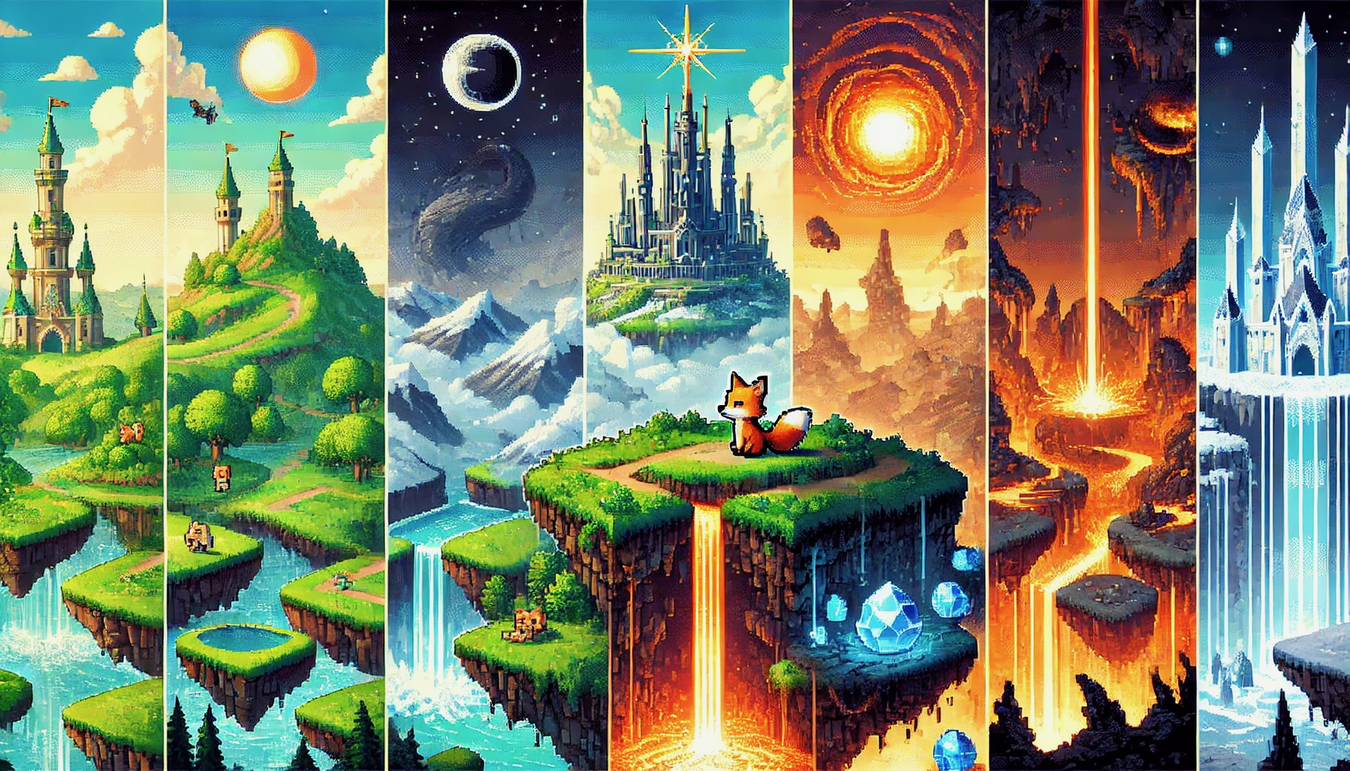
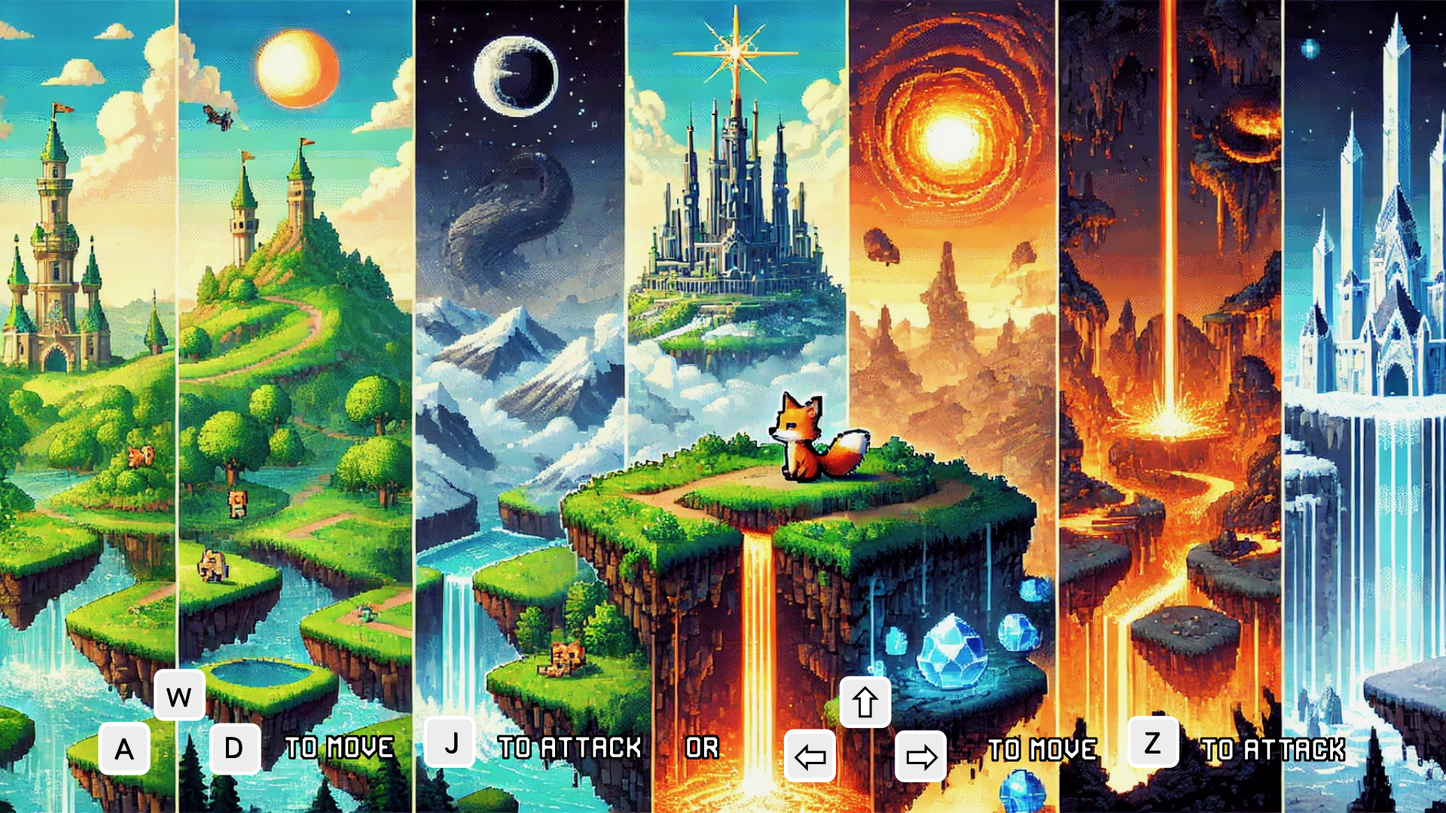
change 3.18

diff --git a/Echoes of Adventure/scenes/Menu.js b/Echoes of Adventure/scenes/Menu.js
@@ -102,6 +102,70 @@ function draw() {
   // 其它游戏状态...
 }
 
+// function drawMenu() {
+//   background(30);
+  
+//   // 背景图片
+//   image(menuBg, 0, 0, width, height);
+  
+//   // 标题动态浮动
+//   let titleOffset = sin(frameCount * 0.05) * 10;
+
+//   textAlign(CENTER, CENTER);
+
+//   // 计算标题宽度
+//   textSize(72);
+//   textStyle(BOLD);
+//   let titleText = "Echoes of Adventure";
+//   let titleWidth = textWidth(titleText) + 80;
+//   let titleHeight = 72 * 1.2; 
+
+//   // 菜单选项 —— 在这里新增 "Press C to view Credits"
+//   textSize(28);
+//   textStyle(NORMAL);
+//   let menuItems = [
+//     "                           ",
+//     "Press 1 for Invincible Mode",
+//     "Press 2 for Normal Mode",
+//     // "                           ",
+//     // "Press I to view instructions",
+//     // "Collect all the coins to complete the level",
+
+//     //"Press C to view Credits"  // <-- 新增这一行
+    
+//   ];
+//   let lineSpacing = 50;
+//   let menuHeight = menuItems.length * lineSpacing;
+
+//   // 计算毛玻璃背景大小
+//   let boxWidth = titleWidth;
+//   let boxHeight = titleHeight + menuHeight + 60;
+//   let boxX = (width - boxWidth) / 2;
+//   let boxY = height / 2 - 150 + titleOffset - titleHeight / 2 - 10;
+
+//   // 绘制半透明背景
+//   noStroke();
+//   fill(0, 0, 0, 120);
+//   rect(boxX, boxY, boxWidth, boxHeight, 20);
+
+//   // 白色半透明层（模拟毛玻璃）
+//   fill(255, 255, 255, 30);
+//   rect(boxX, boxY, boxWidth, boxHeight, 20);
+
+//   // 绘制标题（带黑色描边）
+//   drawTextWithOutline(titleText, width / 2, height / 2 - 150 + titleOffset, 72, 5);
+
+//   // 绘制菜单选项（带黑色描边）
+//   textSize(28);
+//   textStyle(NORMAL);
+//   let startY = height / 2 - 80 + titleOffset;
+//   for (let i = 0; i < menuItems.length; i++) {
+//     drawTextWithOutline(menuItems[i], width / 2, startY + i * lineSpacing, 28, 3);
+//   }
+// }
+
+// 带描边的文字绘制函数
+
 function drawMenu() {
   background(30);
   
@@ -121,14 +185,14 @@ function drawMenu() {
   let titleHeight = 72 * 1.2; 
 
   // 菜单选项 —— 在这里新增 "Press C to view Credits"
-  textSize(28);
-  textStyle(NORMAL);
   let menuItems = [
     "                           ",
-    "Press 1 for Invincible Mode",
-    "Press 2 for Normal Mode",
+    "Press 1 : Invincible Mode  /  Press 2 : Normal Mode",
+    //"Press 2 : Normal Mode",
+    "                           ",
+    "Collect all the coins to complete the level",
     "Press I to view instructions",
-    //"Press C to view Credits"  // <-- 新增这一行
+    // "Press C to view Credits"  // <-- 新增这一行（如需使用请取消注释）
   ];
   let lineSpacing = 50;
   let menuHeight = menuItems.length * lineSpacing;
@@ -152,15 +216,20 @@ function drawMenu() {
   drawTextWithOutline(titleText, width / 2, height / 2 - 150 + titleOffset, 72, 5);
 
   // 绘制菜单选项（带黑色描边）
-  textSize(28);
-  textStyle(NORMAL);
   let startY = height / 2 - 80 + titleOffset;
   for (let i = 0; i < menuItems.length; i++) {
-    drawTextWithOutline(menuItems[i], width / 2, startY + i * lineSpacing, 28, 3);
+    let fontSize = 28; // 默认字体大小
+    // 针对指令与提示行使用较小字体
+    if (
+      menuItems[i] === "Collect all the coins to complete the level" ||
+      menuItems[i] === "Press I to view instructions"
+    ) {
+      fontSize = 24;
+    }
+    drawTextWithOutline(menuItems[i], width / 2, startY + i * lineSpacing, fontSize, 3);
   }
 }
 
-// 带描边的文字绘制函数
 function drawTextWithOutline(txt, x, y, txtSize, outlineWeight) {
   textSize(txtSize);
   textStyle(BOLD);

diff --git a/docs/scenes/Menu.js b/docs/scenes/Menu.js
@@ -102,6 +102,70 @@ function draw() {
   // 其它游戏状态...
 }
 
+// function drawMenu() {
+//   background(30);
+  
+//   // 背景图片
+//   image(menuBg, 0, 0, width, height);
+  
+//   // 标题动态浮动
+//   let titleOffset = sin(frameCount * 0.05) * 10;
+
+//   textAlign(CENTER, CENTER);
+
+//   // 计算标题宽度
+//   textSize(72);
+//   textStyle(BOLD);
+//   let titleText = "Echoes of Adventure";
+//   let titleWidth = textWidth(titleText) + 80;
+//   let titleHeight = 72 * 1.2; 
+
+//   // 菜单选项 —— 在这里新增 "Press C to view Credits"
+//   textSize(28);
+//   textStyle(NORMAL);
+//   let menuItems = [
+//     "                           ",
+//     "Press 1 for Invincible Mode",
+//     "Press 2 for Normal Mode",
+//     // "                           ",
+//     // "Press I to view instructions",
+//     // "Collect all the coins to complete the level",
+
+//     //"Press C to view Credits"  // <-- 新增这一行
+    
+//   ];
+//   let lineSpacing = 50;
+//   let menuHeight = menuItems.length * lineSpacing;
+
+//   // 计算毛玻璃背景大小
+//   let boxWidth = titleWidth;
+//   let boxHeight = titleHeight + menuHeight + 60;
+//   let boxX = (width - boxWidth) / 2;
+//   let boxY = height / 2 - 150 + titleOffset - titleHeight / 2 - 10;
+
+//   // 绘制半透明背景
+//   noStroke();
+//   fill(0, 0, 0, 120);
+//   rect(boxX, boxY, boxWidth, boxHeight, 20);
+
+//   // 白色半透明层（模拟毛玻璃）
+//   fill(255, 255, 255, 30);
+//   rect(boxX, boxY, boxWidth, boxHeight, 20);
+
+//   // 绘制标题（带黑色描边）
+//   drawTextWithOutline(titleText, width / 2, height / 2 - 150 + titleOffset, 72, 5);
+
+//   // 绘制菜单选项（带黑色描边）
+//   textSize(28);
+//   textStyle(NORMAL);
+//   let startY = height / 2 - 80 + titleOffset;
+//   for (let i = 0; i < menuItems.length; i++) {
+//     drawTextWithOutline(menuItems[i], width / 2, startY + i * lineSpacing, 28, 3);
+//   }
+// }
+
+// 带描边的文字绘制函数
+
 function drawMenu() {
   background(30);
   
@@ -121,14 +185,14 @@ function drawMenu() {
   let titleHeight = 72 * 1.2; 
 
   // 菜单选项 —— 在这里新增 "Press C to view Credits"
-  textSize(28);
-  textStyle(NORMAL);
   let menuItems = [
     "                           ",
-    "Press 1 for Invincible Mode",
-    "Press 2 for Normal Mode",
+    "Press 1 : Invincible Mode  /  Press 2 : Normal Mode",
+    //"Press 2 : Normal Mode",
+    "                           ",
+    "Collect all the coins to complete the level",
     "Press I to view instructions",
-    //"Press C to view Credits"  // <-- 新增这一行
+    // "Press C to view Credits"  // <-- 新增这一行（如需使用请取消注释）
   ];
   let lineSpacing = 50;
   let menuHeight = menuItems.length * lineSpacing;
@@ -152,15 +216,20 @@ function drawMenu() {
   drawTextWithOutline(titleText, width / 2, height / 2 - 150 + titleOffset, 72, 5);
 
   // 绘制菜单选项（带黑色描边）
-  textSize(28);
-  textStyle(NORMAL);
   let startY = height / 2 - 80 + titleOffset;
   for (let i = 0; i < menuItems.length; i++) {
-    drawTextWithOutline(menuItems[i], width / 2, startY + i * lineSpacing, 28, 3);
+    let fontSize = 28; // 默认字体大小
+    // 针对指令与提示行使用较小字体
+    if (
+      menuItems[i] === "Collect all the coins to complete the level" ||
+      menuItems[i] === "Press I to view instructions"
+    ) {
+      fontSize = 24;
+    }
+    drawTextWithOutline(menuItems[i], width / 2, startY + i * lineSpacing, fontSize, 3);
   }
 }
 
-// 带描边的文字绘制函数
 function drawTextWithOutline(txt, x, y, txtSize, outlineWeight) {
   textSize(txtSize);
   textStyle(BOLD);

diff --git a/Echoes of Adventure/scenes/GameOver.js b/Echoes of Adventure/scenes/GameOver.js
@@ -15,10 +15,15 @@ function keyPressed() {
 function drawGameOver() {
   background(0);
   textAlign(CENTER, CENTER);
+  
+  // 绘制标题 "Game Over"：红色、大字体，放在画面上半部分
   fill(255, 0, 0);
-  textSize(48);
-  text("Game Over", width / 2, height / 2);
-
-  textSize(24);
-  text("Press M to return to Menu", width / 2, height / 2 + 50);
+  textSize(70);
+  text("Game Over", width / 2, height / 2 - 100);
+  
+  // 绘制说明文字：白色、小字体，放在标题下方，间距适中
+  fill(255);
+  textSize(36);
+  text("Restart this Level -> Press 'P' then 'R'", width / 2, height / 2 - 20);
+  text("Return to Menu -> Press 'M'", width / 2, height / 2 + 30);
 }

diff --git a/docs/scenes/GameOver.js b/docs/scenes/GameOver.js
@@ -15,10 +15,15 @@ function keyPressed() {
 function drawGameOver() {
   background(0);
   textAlign(CENTER, CENTER);
+  
+  // 绘制标题 "Game Over"：红色、大字体，放在画面上半部分
   fill(255, 0, 0);
-  textSize(48);
-  text("Game Over", width / 2, height / 2);
-
-  textSize(24);
-  text("Press M to return to Menu", width / 2, height / 2 + 50);
+  textSize(70);
+  text("Game Over", width / 2, height / 2 - 100);
+  
+  // 绘制说明文字：白色、小字体，放在标题下方，间距适中
+  fill(255);
+  textSize(36);
+  text("Restart this Level -> Press 'P' then 'R'", width / 2, height / 2 - 20);
+  text("Return to Menu -> Press 'M'", width / 2, height / 2 + 30);
 }

diff --git a/Echoes of Adventure/scenes/Credits.js b/Echoes of Adventure/scenes/Credits.js
@@ -147,14 +147,14 @@ function drawCredits() {
   let imageY = (height - imageHeight) / 2;
 
   // 显示左侧图片
-  /*if (creditImage) {
+  if (creditImage) {
     image(creditImage, imageX, imageY, imageWidth, imageHeight);
   } else {
     fill(255, 0, 0);
     textSize(24);
     textAlign(CENTER, CENTER);
     text("Error: Image not loaded", imageX + imageWidth / 2, imageY + imageHeight / 2);
-  }*/
+  }
 
   // 右侧 Credits 信息区域
   let boxWidth = width / 2 - 100;

diff --git a/docs/scenes/Credits.js b/docs/scenes/Credits.js
@@ -147,14 +147,14 @@ function drawCredits() {
   let imageY = (height - imageHeight) / 2;
 
   // 显示左侧图片
-  /*if (creditImage) {
+  if (creditImage) {
     image(creditImage, imageX, imageY, imageWidth, imageHeight);
   } else {
     fill(255, 0, 0);
     textSize(24);
     textAlign(CENTER, CENTER);
     text("Error: Image not loaded", imageX + imageWidth / 2, imageY + imageHeight / 2);
-  }*/
+  }
 
   // 右侧 Credits 信息区域
   let boxWidth = width / 2 - 100;

diff --git a/Echoes of Adventure/classes/Player.js b/Echoes of Adventure/classes/Player.js
@@ -337,10 +337,10 @@ class Player {
 
   /** 🎮 监听键盘按下 */
   keyPressed() {
-    if (key === " ") {
+    if (key === " " || key === "w" || key === "W") {
       this.jump();
     }
-    if (key === "Z" || key === "z") {
+    if (key === "Z" || key === "z" || key === "j" || key === "J") {
       this.attack();
     }
     //if (key === "X" || key === "x") this.dash();

diff --git a/docs/classes/Player.js b/docs/classes/Player.js
@@ -337,10 +337,10 @@ class Player {
 
   /** 🎮 监听键盘按下 */
   keyPressed() {
-    if (key === " ") {
+    if (key === " " || key === "w" || key === "W") {
       this.jump();
     }
-    if (key === "Z" || key === "z") {
+    if (key === "Z" || key === "z" || key === "j" || key === "J") {
       this.attack();
     }
     //if (key === "X" || key === "x") this.dash();

diff --git a/Echoes of Adventure/sketch.js b/Echoes of Adventure/sketch.js
@@ -596,10 +596,10 @@ function keyPressed() {
     }
 
   } else if (currentScene === "level") {
-    if (key === " ") {
+    if (key === " " || key === "w" || key === "W") {
       player.jump();
     }
-    if (key === "Z" || key === "z") {
+    if (key === "Z" || key === "z" || key === "j" || key === "J") {
       player.attack();
     }
 

diff --git a/docs/sketch.js b/docs/sketch.js
@@ -596,10 +596,10 @@ function keyPressed() {
     }
 
   } else if (currentScene === "level") {
-    if (key === " ") {
+    if (key === " " || key === "w" || key === "W") {
       player.jump();
     }
-    if (key === "Z" || key === "z") {
+    if (key === "Z" || key === "z" || key === "j" || key === "J") {
       player.attack();
     }
 
